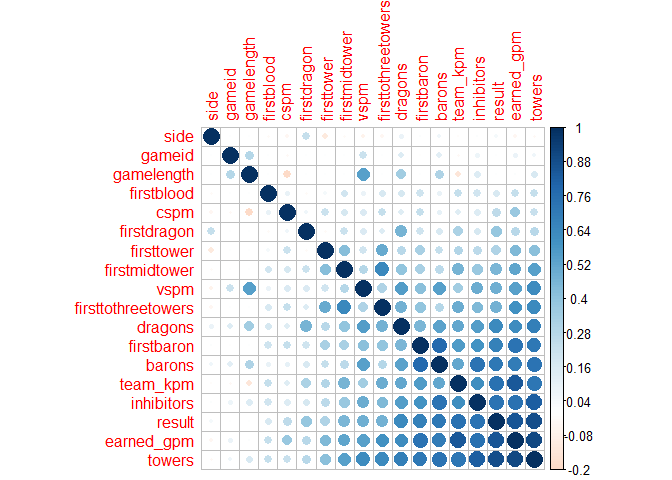
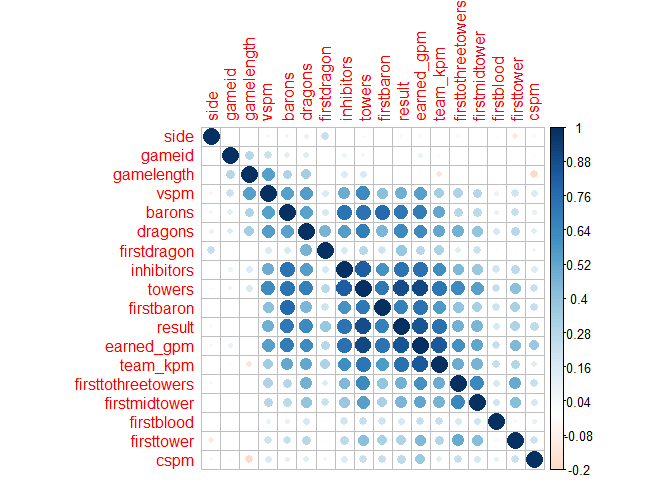
eda and prior complete

diff --git a/Analysis_LoL.md b/Analysis_LoL.md
@@ -11,7 +11,8 @@ for each player of each professional game of the 2022 season thus far.
 In this project I will perform logistic regression in R on the
 `2022 Match Data` found on Oracle Elixir’s [downloads
 page](https://oracleselixir.com/tools/downloads).
-`2022_LoL_esports_match_data_from_OraclesElixir_20220228.csv`
+`2022_LoL_esports_match_data_from_OraclesElixir_20220228.csv` I imported
+the data on February 28th, 2022. This data has been updated since.
 
 # Research Questions
 
@@ -191,13 +192,14 @@ summary(LCS_matches)
 ### Pearson corrolation plot
 
 Here we create a correlation that visualizes the linear correlation
-between each pair of variables
+between each pair of variables and use `order = 'AOE'` to organize our
+variables based off their eigenvectors.
 
 ``` r
 LCS_matches %>%
   data.matrix() %>%
-  cor()%>%
-  corrplot(is.corr = FALSE, order = 'FPC')
+  cor() %>%
+  corrplot(is.corr = FALSE, order = 'AOE')
 ```
 
 ![](Analysis_LoL_files/figure-gfm/corr_matrix-1.png)<!-- -->
@@ -206,24 +208,23 @@ LCS_matches %>%
 
 To check the shape of the data columns to see if they might be well fit
 by any particular random variables, and if there are any outliers, we
-plot histograms and whisker plots of each variable as applicable.
+create whisker plots of each variable as applicable.
 
 ``` r
-hist.data.frame(LCS_matches)
-```
+par(mar=c(.5,.5,.5,.5))
 
-![](Analysis_LoL_files/figure-gfm/data_shapes-1.png)<!-- -->
-
-``` r
 num_LCS <- LCS_matches %>%
   select_if(is.numeric)
 
+par(mfrow = c(2,5))
+
 for(i in 1:10) {
-   boxplot(num_LCS[,i], main=names(num_LCS)[i])
+   boxplot(num_LCS[,i],
+           main = names(num_LCS)[i])
 }
 ```
 
-![](Analysis_LoL_files/figure-gfm/data_shapes-2.png)<!-- -->![](Analysis_LoL_files/figure-gfm/data_shapes-3.png)<!-- -->![](Analysis_LoL_files/figure-gfm/data_shapes-4.png)<!-- -->![](Analysis_LoL_files/figure-gfm/data_shapes-5.png)<!-- -->![](Analysis_LoL_files/figure-gfm/data_shapes-6.png)<!-- -->![](Analysis_LoL_files/figure-gfm/data_shapes-7.png)<!-- -->![](Analysis_LoL_files/figure-gfm/data_shapes-8.png)<!-- -->![](Analysis_LoL_files/figure-gfm/data_shapes-9.png)<!-- -->![](Analysis_LoL_files/figure-gfm/data_shapes-10.png)<!-- -->![](Analysis_LoL_files/figure-gfm/data_shapes-11.png)<!-- -->
+![](Analysis_LoL_files/figure-gfm/data_shapes-1.png)<!-- -->
 
 These reveal that to our luck, there aren’t any serious outliers and
 that also specific pieces of data seem to fit specific distributions
@@ -235,11 +236,14 @@ game outcomes and also how they may relate to one another
 
 ``` r
 cols <- character(nrow(LCS_matches))
+
 cols[] <- "black"
+
 cols[LCS_matches$result == TRUE] <- "red"
 
-
-pairs(num_LCS, col=cols, order = "FPC")
+pairs(num_LCS,
+      col=cols,
+      order = "FPC")
 ```
 
 ![](Analysis_LoL_files/figure-gfm/pairs-1.png)<!-- -->
@@ -288,6 +292,7 @@ display similar correlation patterns with the other variables.
 input <- LCS_matches[,c("result", "towers")]
 
 model_towers <- glm(formula = result ~ towers, data = input, family = binomial)
+
 summary(model_towers)
 ```
 
@@ -377,12 +382,12 @@ baron_regression$result = predict(model_barons,
                                       type="response")
 
 plot(result ~ barons,
-     data=LCS_matches,
-     col="steelblue")
+     data = LCS_matches,
+     col = "steelblue")
 
 lines(result ~ barons,
       baron_regression,
-      lwd=2)
+      lwd = 2)
 ```
 
 ![](Analysis_LoL_files/figure-gfm/baron_regression-1.png)<!-- -->
@@ -511,6 +516,7 @@ strongly correlated variables.
 
 ``` r
 new_model = lm(LCS_matches$result ~ . - towers, data = LCS_matches)
+
 summary(new_model)$r.squared
 ```
 
@@ -518,6 +524,7 @@ summary(new_model)$r.squared
 
 ``` r
 new_model = lm(LCS_matches$result ~ . - barons, data = LCS_matches)
+
 summary(new_model)$r.squared
 ```
 
@@ -525,19 +532,23 @@ summary(new_model)$r.squared
 
 ``` r
 new_model = lm(LCS_matches$result ~ . - dragons, data = LCS_matches)
+
 summary(new_model)$r.squared
 ```
 
     ## [1] 0.9302447
 
 ``` r
-new_model = new_model = lm(LCS_matches$result ~ . - team_kpm, data = LCS_matches)
+new_model = lm(LCS_matches$result ~ . - team_kpm, data = LCS_matches)
+
 summary(new_model)$r.squared
 ```
 
     ## [1] 0.9296008
 
-Since
+I do believe these are all worth keeping but will also perform logistic
+regression with the indicator variable as `barons`,`dragons`, and
+`team_kpm`.
 
 # Data Analysis
 
